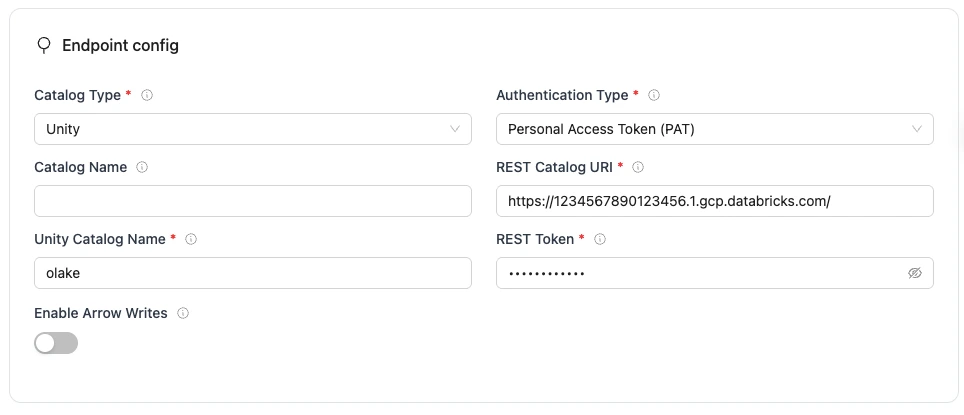
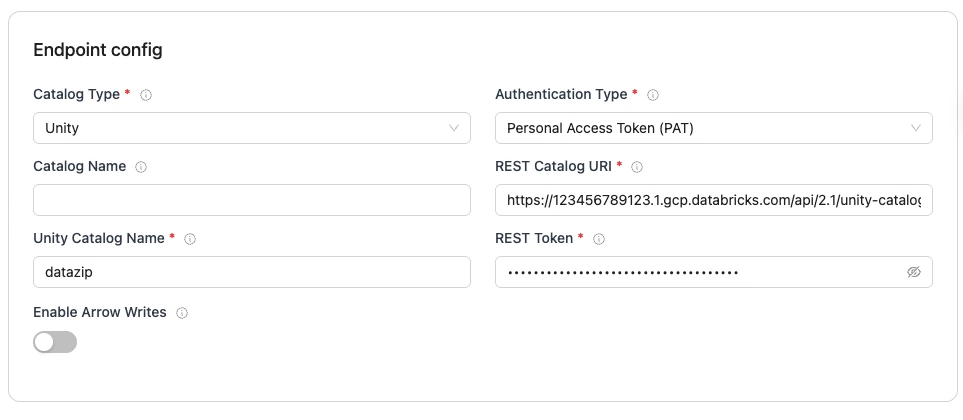
update unity catalog link

diff --git a/docs/shared/config/UnityIcebergWriterCLIConfigDetails.jsx b/docs/shared/config/UnityIcebergWriterCLIConfigDetails.jsx
@@ -23,7 +23,7 @@ const FIELDS = [
     authTypes: AUTH_ALL,
     parameter: 'rest_catalog_url',
     required: true,
-    sample: 'https://1234567890123456.1.gcp.databricks.com/',
+    sample: 'https://1234567890123456.1.gcp.databricks.com/api/2.1/unity-catalog/iceberg-rest',
     description:
       'Databricks workspace URL with Unity Catalog REST API endpoint. Use your actual workspace URL.',
   },

diff --git a/docs/shared/config/UnityIcebergWriterUIConfigDetails.jsx b/docs/shared/config/UnityIcebergWriterUIConfigDetails.jsx
@@ -14,7 +14,7 @@ const FIELDS = [
     authTypes: AUTH_ALL,
     parameter: 'REST Catalog URL',
     required: true,
-    sample: 'https://1234567890123456.1.gcp.databricks.com/',
+    sample: 'https://1234567890123456.1.gcp.databricks.com/api/2.1/unity-catalog/iceberg-rest',
     description:
       'Databricks workspace URL with Unity Catalog REST API endpoint. Use your actual workspace URL.',
   },
